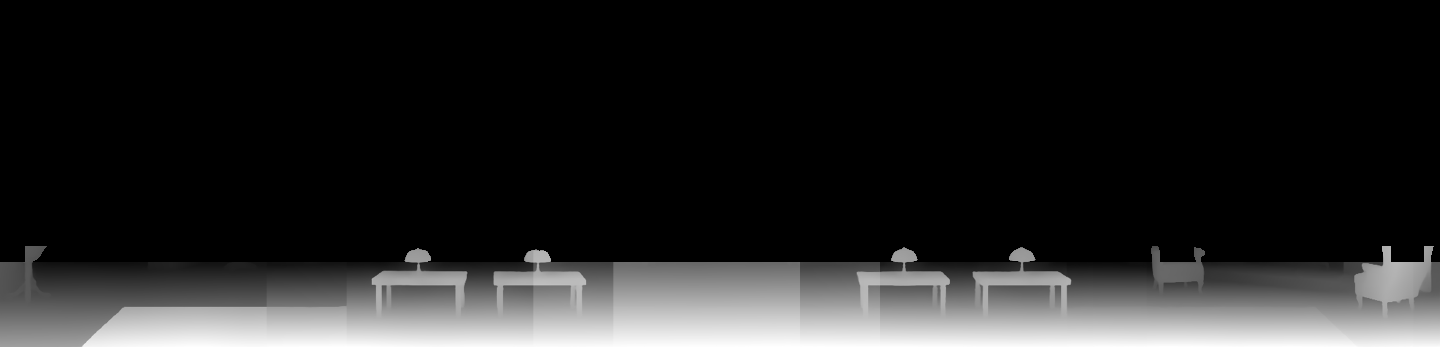
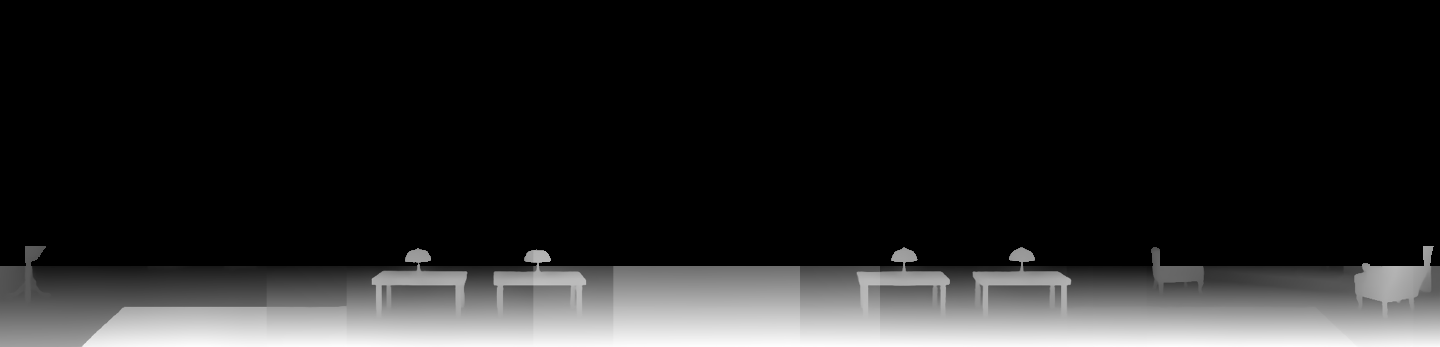
fix: painted people stand on the floor (#278)
* fix: painted people stand on the floor

The sheets' foot was the skeleton's ground line, scaled, but the painted shoes
end above it in some frames and below it in others: the Library's readers
floated up to 4 px in their stride and sank up to 4 px at a shelf. The bake now
measures each frame's sole, its lowest painted row, and writes it per person and
frame as foot in walkers.json and readers.json; each frame stands on its own.

The Library's floor line also moves from 262, the bookcases' plinths, to 266,
the floor in front of them, clear of the reading tables at 271.

* feat(blog): the Library's readers each go their own way

The readers walked, searched and read in step. Their routine is now its own
module (readers.js), and each reader picks what to do next by weight: walk past,
now and then out of the room and back after a while; stop at a shelf and look;
or take a book and read it, for a moment or for long, and perhaps then browse
the shelf next door. Idle pauses come between. Each has its own speed and its
own pace on every time, starts part way through its routine, and faces either
way at a stop, the whole stop long. No two stop at, or head for, one shelf.

The weights, times and chances are in library-fx.json. A seeded five-minute
simulation (scripts/test/readers.test.js) checks that no two readers change
what they do on the same frame, that they mostly do different things, that
shelves are never shared, and that every behaviour and both facings occur.

diff --git a/web3d/src/readers.js b/web3d/src/readers.js
@@ -1,0 +1,80 @@
+// The Library's readers' routine (library-fx.js), apart from their drawing, so a test can run it on a seed. Each reader
+// goes its own way: at every turn it picks, by library-fx.json's weights, to walk past (now and then out of the room and
+// back), to stop at a shelf and look, or to take a book and read it, perhaps then browsing the shelf next door, and idles
+// a while between. Each has its own speed and its own pace on every duration, and starts somewhere in its routine, so no
+// two keep step. No two stop at, or head for, the same shelf. Stopped, a reader faces either way, the whole stop long.
+export function readers(cfg, count, random = Math.random) {
+  const rnd = (a, b) => a + random() * (b - a);
+  const weighted = (options) => {   // [[value, weight], ...]
+    let left = random() * options.reduce((sum, [, w]) => sum + w, 0);
+    return (options.find(([, w]) => (left -= w) < 0) ?? options.at(-1))[0];
+  };
+  const { shelves, spread, room } = cfg, mid = (room[0] + room[1]) / 2, all = [];
+  const free = (me) => shelves.map((_, i) => i).filter((i) => all.every((o) => o === me || o.shelf !== i));
+  const time = (r, [a, b]) => rnd(a, b) * r.pace;
+  const face = (r) => { if (random() >= cfg.keep) r.left = random() < 0.5; };   // at a stop: on as it walked, or either way
+
+  // A browse at shelf i: walk there, stand, reach, take, and read for short or long; then perhaps the free shelf next door.
+  const browse = (r, i, again = true) => {
+    const steps = [{ walk: shelves[i] + rnd(-spread, spread), shelf: i }, ...cfg.browse.map((range, k) => ({ pose: k, ms: time(r, range) })),
+      { pose: 3, ms: time(r, weighted(cfg.read.map(([a, b, w]) => [[a, b], w]))) }];
+    const next = free(r).filter((j) => Math.abs(j - i) === 1);
+    return again && random() < cfg.nearby && next.length ? [...steps, ...browse(r, next[random() * next.length | 0], false)] : steps;
+  };
+  const plan = (r) => {
+    const what = weighted(Object.entries(cfg.choose)), open = free(r);
+    if (what === 'pass' || !open.length) {   // a stroll far across, without stopping, now and then out of the room for a while
+      if (random() < cfg.leave) return [{ walk: r.x < mid ? room[1] : room[0], shelf: null }, { away: time(r, cfg.away) }];
+      const far = rnd(room[0] + 80, room[1] - 80);
+      return [{ walk: Math.abs(far - r.x) > (room[1] - room[0]) / 3 ? far : r.x < mid ? room[1] - 80 : room[0] + 80, shelf: null }];
+    }
+    const i = open[random() * open.length | 0];
+    const steps = what === 'look' ? [{ walk: shelves[i] + rnd(-spread, spread), shelf: i }, { pose: 0, ms: time(r, cfg.look) }] : browse(r, i);
+    return [...steps, { idle: time(r, cfg.idle) }];
+  };
+  // Starts the next step: a walk claims its shelf, or lets one go (if another took it meanwhile, a fresh plan instead);
+  // the rest last their time.
+  const begin = (r, now) => {
+    if (!r.steps.length) r.steps = plan(r);
+    const s = r.steps[0];
+    if ('walk' in s) {
+      if (s.shelf != null && !free(r).includes(s.shelf)) { r.steps = plan(r); return begin(r, now); }
+      r.shelf = s.shelf;
+    } else r.until = now + (s.ms ?? s.idle ?? s.away);
+    if ('away' in s) r.shown = false;
+    r.changed = now;
+  };
+
+  for (let k = 0; k < count; k++) {
+    all.push({ x: rnd(shelves[0] - 60, shelves.at(-1) + 60), v: rnd(...cfg.speed), pace: rnd(...cfg.pace), dist: rnd(0, 100),
+      left: random() < 0.5, shown: true, shelf: null, until: 0, changed: 0, steps: [] });
+  }
+  for (const r of all) {   // somewhere along a fresh plan, part way through its step
+    const steps = plan(r), k = random() * steps.length | 0, walked = steps.slice(0, k).filter((s) => 'walk' in s).at(-1);
+    r.steps = steps.slice(k);
+    if (walked) { r.x = walked.walk; r.shelf = walked.shelf; if (walked.shelf != null) face(r); }
+    begin(r, 0);
+    if (!('walk' in r.steps[0])) r.until *= random();
+  }
+
+  // Moves every reader dt ms on, to `now`.
+  const step = (now, dt) => {
+    for (const r of all) {
+      const s = r.steps[0];
+      if ('walk' in s) {
+        const go = Math.min(Math.abs(s.walk - r.x), r.v * dt / 1000);
+        r.left = s.walk < r.x;
+        r.x += r.left ? -go : go;
+        r.dist += go;
+        if (Math.abs(s.walk - r.x) >= 1) continue;
+        if (s.shelf != null) face(r);
+      } else if (now < r.until) continue;
+      if ('away' in s) r.shown = true;   // back in, at the edge it left by
+      r.steps.shift();
+      begin(r, now);
+    }
+  };
+  // What a reader shows: -1 walking, else its pose (0 stand, 1 reach, 2 take, 3 read); idling, it stands.
+  const pose = (r) => ('walk' in r.steps[0] ? -1 : r.steps[0].pose ?? 0);
+  return { all, step, pose };
+}

diff --git a/scripts/test/readers.test.js b/scripts/test/readers.test.js
@@ -1,0 +1,70 @@
+const test = require("node:test");
+const assert = require("node:assert/strict");
+const fs = require("node:fs");
+const path = require("node:path");
+
+const load = () => import("../../web3d/src/readers.js");
+const cfg = JSON.parse(fs.readFileSync(path.join(__dirname, "../../static/building/pixel/library-fx.json"), "utf8")).readers;
+
+// A seeded random source, so the run is the same every time.
+function seeded(seed) {
+  return () => {
+    seed = (seed + 0x6d2b79f5) | 0;
+    let t = Math.imul(seed ^ (seed >>> 15), 1 | seed);
+    t = (t + Math.imul(t ^ (t >>> 7), 61 | t)) ^ t;
+    return ((t ^ (t >>> 14)) >>> 0) / 4294967296;
+  };
+}
+
+// Five minutes of the Library's three readers at 60 frames a second: what each is doing on every frame.
+async function run(seed) {
+  const { readers } = await load();
+  const crowd = readers(cfg, 3, seeded(seed)), dt = 1000 / 60, frames = [];
+  const doing = (r) => {
+    const s = r.steps[0];
+    return "walk" in s ? "walk" : "pose" in s ? ["stand", "reach", "take", "read"][s.pose] : "idle" in s ? "idle" : "away";
+  };
+  for (let now = 0; now < 5 * 60 * 1000; now += dt) {
+    crowd.step(now, dt);
+    frames.push(crowd.all.map((r) => ({ doing: doing(r), shelf: r.shelf, left: r.left, ms: r.steps[0].ms })));
+  }
+  return frames;
+}
+
+test("the Library's readers go their own ways, not in step", async () => {
+  const frames = await run(277);
+  let changes = 0, together = 0, allAlike = 0;
+  const pairs = [0, 0, 0];
+  frames.forEach((f, i) => {
+    if (i) {
+      const changed = f.filter((r, k) => r.doing !== frames[i - 1][k].doing).length;
+      changes += changed;
+      if (changed > 1) together++;
+    }
+    if (f.every((r) => r.doing === f[0].doing)) allAlike++;
+    [[0, 1], [0, 2], [1, 2]].forEach(([a, b], k) => { if (f[a].doing === f[b].doing) pairs[k]++; });
+  });
+  assert.ok(changes > 60, `the readers barely change what they do: ${changes} changes in five minutes`);
+  assert.ok(together <= changes * 0.02, `${together} of ${changes} changes came on the same frame as another reader's`);
+  assert.ok(allAlike < frames.length * 0.2, `all three did the same thing ${Math.round(100 * allAlike / frames.length)}% of the time`);
+  for (const same of pairs) assert.ok(same < frames.length * 0.5, `two readers did the same thing ${Math.round(100 * same / frames.length)}% of the time`);
+});
+
+test("no two readers stop at, or head for, the same shelf", async () => {
+  const frames = await run(278);
+  frames.forEach((f, i) => {
+    const shelves = f.map((r) => r.shelf).filter((s) => s != null);
+    assert.equal(new Set(shelves).size, shelves.length, `two readers had shelf ${shelves} at frame ${i}`);
+  });
+});
+
+test("the readers walk past and leave the room, look, take books and read short and long, facing either way", async () => {
+  const frames = (await run(279)).flat();
+  for (const doing of ["walk", "stand", "reach", "take", "read", "idle", "away"]) {
+    assert.ok(frames.some((r) => r.doing === doing), `nobody was ever ${doing}`);
+  }
+  assert.ok(frames.some((r) => r.doing === "read" && r.ms >= 10000), "nobody read for long");
+  assert.ok(frames.some((r) => r.doing === "read" && r.ms < 10000), "nobody read for a moment");
+  const stops = frames.filter((r) => r.doing !== "walk" && r.doing !== "away" && r.shelf != null);
+  assert.ok(stops.some((r) => r.left) && stops.some((r) => !r.left), "every stop at a shelf faced the same way");
+});

diff --git a/web3d/src/library-fx.js b/web3d/src/library-fx.js
@@ -3,6 +3,7 @@
 // window's sky, so behind its frames and the rooftops. Over the header's picture, cropped as it is (scene-fx.js); where
 // is library-fx.json, written by web3d/pixel/gen_library.py, and the readers are gen_walkers.py's readers sheet. One
 // painting, at dusk, so no hours.
+import { readers } from './readers.js';
 import { animate, people, rnd } from './scene-fx.js';
 
 const canvas = document.querySelector('.library-fx');
@@ -57,26 +58,19 @@ function setup(ctx, fx, { sprite }, sheet) {
     }
   };
 
-  // Readers walk the floor in front of the bookcases to a shelf, face it, stand, reach up, take a book and read it, some for
-  // a long while, then walk on to another. The reading tables in front hide their legs (library-depth.png).
-  const { floor, shelves, spread, speed, browse } = fx.readers;
-  const shelf = () => shelves[Math.random() * shelves.length | 0] + rnd(-spread, spread);
-  let readers = [];
-  sheet.then((s) => {
-    if (s) readers = s.frames.map((frames) => ({ s, frames, x: rnd(shelves[0] - 60, shelves.at(-1) + 60), v: rnd(...speed), dist: rnd(0, 100), pose: -1, until: 0, to: shelf(), left: false }));
-  });
+  // Readers walking the floor in front of the bookcases, stopping to look, to take a book and read, each its own way
+  // (readers.js). Only the reading lamps hide them (library-depth.png).
+  const crowd = readers(fx.readers, 3);
+  let looks = null;
+  sheet.then((s) => { looks = s; });
   const drawReaders = (now, dt) => {
-    for (const r of readers) {
-      if (r.pose < 0) {   // walking to the shelf picked, a step of the cycle per stride of ground
-        const step = Math.min(Math.abs(r.to - r.x), r.v * dt / 1000);
-        r.left = r.to < r.x;
-        r.x += r.left ? -step : step;
-        r.dist += step;
-        if (Math.abs(r.to - r.x) < 1) { r.pose = 0; r.until = now + rnd(...browse[0]); r.left = false; }   // there: face the shelf
-      } else if (now > r.until && ++r.pose < browse.length) r.until = now + rnd(...browse[r.pose]);
-      else if (r.pose >= browse.length) { r.pose = -1; r.to = shelf(); }
-      sprite(r.s, r.frames[r.pose < 0 ? Math.floor(r.dist / r.s.stride * r.s.walk) % r.s.walk : r.s.walk + r.pose], r.x, floor, r.left);
-    }
+    crowd.step(now, dt);
+    if (!looks) return;
+    crowd.all.forEach((r, i) => {
+      if (!r.shown) return;
+      const frames = looks.frames[i % looks.frames.length], p = crowd.pose(r);
+      sprite(looks, frames[p < 0 ? Math.floor(r.dist / looks.stride * looks.walk) % looks.walk : looks.walk + p], r.x, fx.readers.floor, r.left);
+    });
   };
 
   return (now, dt) => { drawReaders(now, dt); drawFire(now, dt); drawClouds(dt); drawDust(now, dt); };

diff --git a/web3d/src/scene-fx.js b/web3d/src/scene-fx.js
@@ -41,10 +41,10 @@ function depthTest(ctx, bitmap) {
     for (let xx = Math.max(0, x - 8); xx <= Math.min(W - 1, x + 8); xx++) m = Math.min(m, depth[y * W + xx]);
     return m;
   };
-  // One frame of a painted person (people()) standing at (x, y), mirrored when facing left, depth-tested from its feet.
-  const sprite = (sheet, cells, x, y, left) => {
-    const x0 = Math.round(x) - (sheet.w >> 1), y0 = y - sheet.foot, f = footAt(Math.round(x), y);
-    for (const { fill, px } of cells) {
+  // One frame of a painted person (people()) with its sole on (x, y), mirrored when facing left, depth-tested from its feet.
+  const sprite = (sheet, frame, x, y, left) => {
+    const x0 = Math.round(x) - (sheet.w >> 1), y0 = y - frame.foot, f = footAt(Math.round(x), y);
+    for (const { fill, px } of frame.cells) {
       ctx.fillStyle = fill;
       for (let i = 0; i < px.length; i += 2) dfill(x0 + (left ? sheet.w - 1 - px[i] : px[i]), y0 + px[i + 1], 1, 1, f);
     }
@@ -53,7 +53,7 @@ function depthTest(ctx, bitmap) {
 }
 
 // A sheet of painted people (gen_walkers.py), a row per person and a column per frame, split once into each frame's
-// pixels grouped by colour, as they are or dimmed for the night. url(ext) is the sheet's .json or .webp. Resolves to null
+// pixels grouped by colour, as they are or dimmed for the night, with the row of its sole. url(ext) is the sheet's .json or .webp. Resolves to null
 // without it: the scene goes without them.
 export function people(url, night) {
   return Promise.all([
@@ -74,7 +74,7 @@ export function people(url, night) {
           byColour.get(fill).push(x, y);
         }
       }
-      return [...byColour].map(([fill, px]) => ({ fill, px }));
+      return { cells: [...byColour].map(([fill, px]) => ({ fill, px })), foot: m.foot[j][k] };
     }));
     return { ...m, frames };
   }).catch(() => null);

diff --git a/web3d/pixel/gen_library.py b/web3d/pixel/gen_library.py
@@ -159,11 +159,17 @@ FX = {
     "glow": [[1240, 250, 1350, 280], [1255, 280, 1345, 300]],   # the hearth and the floor before it
     "dust": [655, 40, 795, 300],                         # the window's shaft of light
     "clouds": [620, 40, 820, 110],                       # where clouds drift past outside, left to right
-    # The readers (gen_walkers.py's readers.webp): their feet's row on the floor in front of the bookcases, each bookcase's
-    # middle and how far either side of it a reader may stop, their walking speed in px/s, and how long each of a reader's
-    # poses at a shelf lasts, in ms (stand, reach, take, read: readers.json's browse).
-    "readers": {"floor": 262, "shelves": [360, 479, 601, 846, 965, 1087], "spread": 20, "speed": [45, 60],
-                "browse": [[600, 900], [900, 1300], [700, 900], [2500, 12000]]},
+    # The readers (gen_walkers.py's readers.webp; their routine is web3d/src/readers.js). Where: their soles' row, on the floor
+    # in front of the bookcases (their plinths end at row 263, the reading tables' tops start at 271); each bookcase's
+    # middle and how far either side a reader may stop; the room they walk, past the art's edges to leave it. How: walking
+    # speed in px/s; each reader's own pace, a factor on every time; what to do next, by weight (walk past, stop and look,
+    # take a book); and times in ms: stand, reach and take, then a read short or long ([min, max, weight]), a look, an idle
+    # pause between, and a while out of the room. Chances: a walk past leaves the room, a read goes on to the shelf next
+    # door, a stop keeps the walking direction (else either way).
+    "readers": {"floor": 266, "shelves": [360, 479, 601, 846, 965, 1087], "spread": 20, "room": [-60, 1500],
+                "speed": [45, 60], "pace": [0.7, 1.4], "choose": {"pass": 2, "look": 3, "browse": 4},
+                "browse": [[600, 900], [900, 1300], [700, 900]], "read": [[2500, 8000, 3], [10000, 20000, 1]],
+                "look": [2000, 5000], "idle": [800, 4000], "away": [3000, 9000], "leave": 0.4, "nearby": 0.4, "keep": 0.3},
 }
 LAMPS = 246                                              # the reading lamps' tops: above them, nothing stands in front of the readers
 WINDOW = (655, 20, 795, 175)                             # x0, y0, x1, y1: where the sky shows through the window

diff --git a/web3d/pixel/gen_walkers.py b/web3d/pixel/gen_walkers.py
@@ -225,7 +225,9 @@ def frame(pick, person):
 
 
 def sheet(out, stem, names, columns, person, **more):
-    """OUT/STEM.webp, a row per person and a column per frame, and STEM.json with the frame's size, its foot row and stride."""
+    """OUT/STEM.webp, a row per person and a column per frame, and STEM.json with the frame's size, the stride and each
+    frame's foot: the row of its lowest painted pixel, the sole of the shoe that is down, which stands on the floor line.
+    The skeleton's ground line will not do: the painted shoes end above it in some frames and below it in others."""
     rows = [[frame(f"{n}_{c}", person) for c in columns] for n in names]
     fw, fh = rows[0][0].size
     im = Image.new("RGBA", (fw * len(columns), fh * len(rows)))
@@ -233,8 +235,9 @@ def sheet(out, stem, names, columns, person, **more):
         for k, f in enumerate(row):
             im.paste(f, (k * fw, j * fh))
     im.save(out / f"{stem}.webp", "WEBP", lossless=True, quality=100, method=6, exact=True)
+    foot = [[max(y for y in range(fh) for x in range(fw) if f.getpixel((x, y))[3]) for f in row] for row in rows]
     (out / f"{stem}.json").write_text(json.dumps({"people": names, "frames": len(columns), "w": fw, "h": fh,
-                                                  "foot": round(FOOT * person / (36 * U)), "stride": stride(person), **more}))
+                                                  "foot": foot, "stride": stride(person), **more}))
     print(f"baked {stem}.webp:", len(names), "people of", len(columns), "frames,", fw, "x", fh)
 
 

diff --git a/CLAUDE.md b/CLAUDE.md
@@ -114,13 +114,15 @@ Its walkers are painted people: `web3d/pixel/gen_walkers.py` draws 8 walk-cycle 
 repaints them as each of six people with one seed apiece (`paint`), and `bake` turns the picked frames in
 `web3d/pixel/paintings/picks/walkers/NAME_K.png` into `walkers.webp` (a row per person, a frame per column) and
 `walkers.json`, a person 60 art px tall (`PERSON`, against the street's ~100 px roller doors). A walker steps one frame
-per `stride` / 8 px of ground, so its feet do not slide, at 0.71-0.97 strides a second; 8 by day, 4 dimmed at night. The
+per `stride` / 8 px of ground, so its feet do not slide, at 0.71-0.97 strides a second, and stands on each frame's own
+sole (`foot`, the lowest painted row the bake finds); 8 by day, 4 dimmed at night. The
 lamp posts in `workshop-depth.png` are stood up by `gen_workshop.py` (`upright`): the model fades their thin poles into the
 wall as they rise, and a whole post must hide a walker passing behind it.
 `library-fx.js`, its own bundle (`--mode library`): the fire, dust in the window's light and clouds only over the
 window's sky, from `library-fx.json`, which `gen_library.py build` writes from its `FX` and the sky it reads off the art.
-Three readers walk its floor to a shelf, stand, reach up, take a book and read it (the floor line, the shelves, their speed
-and each pose's time are `FX["readers"]`). They are `readers.webp` and `readers.json`, which `gen_walkers.py bake` makes from
+Three readers walk its floor, each its own way (`web3d/src/readers.js`, tested on a seed in `scripts/test/readers.test.js`):
+walking past and out of the room, stopping to look, or taking a book to read, facing either way, never two at one shelf.
+The floor line, the shelves, their speed, pace, weights and times are `FX["readers"]`. They are `readers.webp` and `readers.json`, which `gen_walkers.py bake` makes from
 the walkers' frames and four browse poses (`browse` paints them; picks `NAME_browse_KIND.png`), 135 px tall. Only the
 reading lamps hide them: `gen_library.py` pushes the back wall of `depth_map.py library`'s map back (`backdrop`), as the model
 reads books and the wall's seams as nearer than the floor.
